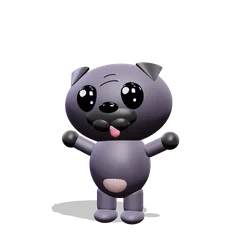
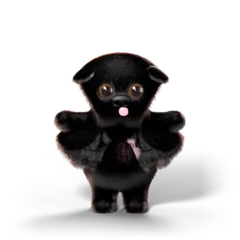
Blender-rendered mascots with real fur; wobbly hanging kitten
Pug, alien cat and slider kitten re-rendered in Cycles with particle fur,
glossy eyes and soft studio light. The hanging kitten now has toe beans,
eye rims and a grey cap, and swings from its paws with follow-through on
legs, tail and head. Click moves retimed to the new 1 s clips; floor
shadows fade at the image edges.

Claude-Session: https://claude.ai/code/session_019fbWZE46PVqoy15rDZvK2K

diff --git a/index.html b/index.html
@@ -411,7 +411,7 @@ body.token-world .topic.pile .symbol::after{content:"";position:absolute;left:-3
 .dogMascot,.bubDog,.alienCat{cursor:pointer;-webkit-tap-highlight-color:transparent;user-select:none}
 .dogMascot{width:132px;margin:-14px -8px -10px -10px}.dogMascot img,.bubDog img{width:100%;height:auto;display:block}.bubDog{width:96px;margin:-10px 0}
 .alienCat{width:92px;height:92px;margin:-14px -12px -14px -14px;animation:none}
-.kCat img{position:absolute;left:-50px;top:-22px;width:100px;height:100px;filter:drop-shadow(0 3px 2px rgba(0,0,0,.25))}
+.kCat img{position:absolute;left:-34px;top:-8px;width:68px;height:68px;filter:drop-shadow(0 3px 2px rgba(0,0,0,.2))}
 @media(max-width:800px){.shell{zoom:1.12}}
 body.token-world .topic.pile{padding:18px 16px}body.token-world .topic.pile b{font-size:19px}
 body.token-world.basics-open #parallel{display:none}body.token-world.basics-open #fees{display:block}
@@ -1018,7 +1018,7 @@ document.querySelectorAll('.topic,.exploreCard,.tokenCategory,.tokenTopic,.token
 
 /* Bubble pit: a theme's funds drop in as heavy bouncing balls. Pop one to open the fund. */
 const DOGSVG=document.querySelector('.dogMascot').innerHTML;let bub=null;
-document.addEventListener('click',e=>{const m=e.target.closest('.dogMascot,.bubDog,.alienCat');const i=m&&(m.tagName==='IMG'?m:m.querySelector('img'));if(!i||!i.dataset.move||i._busy||matchMedia('(prefers-reduced-motion: reduce)').matches)return;i._busy=1;const idle=i.src;(i._mv||(i._mv=fetch(i.dataset.move).then(r=>r.blob()))).then(b=>{const u=URL.createObjectURL(b);i.src=u;setTimeout(()=>{i.src=idle;URL.revokeObjectURL(u);i._busy=0},1200)}).catch(()=>{i._busy=0})});
+document.addEventListener('click',e=>{const m=e.target.closest('.dogMascot,.bubDog,.alienCat');const i=m&&(m.tagName==='IMG'?m:m.querySelector('img'));if(!i||!i.dataset.move||i._busy||matchMedia('(prefers-reduced-motion: reduce)').matches)return;i._busy=1;const idle=i.src;(i._mv||(i._mv=fetch(i.dataset.move).then(r=>r.blob()))).then(b=>{const u=URL.createObjectURL(b);i.src=u;setTimeout(()=>{i.src=idle;URL.revokeObjectURL(u);i._busy=0},990)}).catch(()=>{i._busy=0})});
 function openBubbles(key){const T=THEMES[key];if(!T)return;closeBubbles(true);const L=document.getElementById('bubbleLayer'),F=document.getElementById('bubField');lastFocus=document.activeElement;
  L.hidden=false;document.body.style.overflow='hidden';document.getElementById('bubTitle').textContent=T[1]+' '+T[0];
  const ids=T[2],n=ids.length;document.getElementById('bubNote').textContent=T[3]||(SMUG[Math.floor(Math.random()*SMUG.length)].replace('{n}',T[0]));document.getElementById('bubDog').innerHTML=DOGSVG;

diff --git a/scripts/mascots/cat.py b/scripts/mascots/cat.py
@@ -25,14 +25,14 @@ def build(kind='alien'):
         mask = lambda nt, sx: maxs(nt, oval(nt, sx, 0, 0.9, 0.2, 0.24), oval(nt, sx, 0, 1.56, 0.2, 0.1, -0.3))
         flen, iris = 0.03, (0.06, 0.02, 0.09)
     else:
-        c1, c2 = (0.86, 0.84, 0.82), (0.24, 0.23, 0.26)  # white kitten, grey hood
+        c1, c2 = (0.97, 0.96, 0.95), (0.17, 0.16, 0.19)  # white kitten, grey hood
         def mask(nt, sx):
-            top = smooth_mask(nt, sx.outputs['Z'], 1.8, 1.95)
+            top = smooth_mask(nt, sx.outputs['Z'], 1.84, 1.97)
             ax = nt.nodes.new('ShaderNodeMath'); ax.operation = 'ABSOLUTE'; nt.links.new(sx.outputs['X'], ax.inputs[0])
             blaze = mult(nt, mult(nt, smooth_mask(nt, ax.outputs[0], 0.13, 0.05), smooth_mask(nt, sx.outputs['Y'], -0.2, -0.38)), smooth_mask(nt, sx.outputs['Z'], 2.12, 1.98))
             inv = nt.nodes.new('ShaderNodeMath'); inv.operation = 'SUBTRACT'; inv.inputs[0].default_value = 1; nt.links.new(blaze, inv.inputs[1])
             return mult(nt, top, inv.outputs[0])
-        flen, iris = 0.042, (0.05, 0.06, 0.09)
+        flen, iris = 0.042, (0.1, 0.17, 0.3)
     skin_m = region_mix(principled('catSkin', c1, 0.6, sss=0.15, sss_radius=(1, 0.4, 0.3), sss_scale=0.04), c2, mask)
     pink = principled('pink', (0.95, 0.42, 0.52), 0.42, sss=0.4, sss_radius=(1, 0.3, 0.3), sss_scale=0.03)
     line_m = principled('mouth', (0.05, 0.02, 0.03), 0.7, spec=0.1)
@@ -67,9 +67,26 @@ def build(kind='alien'):
             whiskers.append(tube(f'wh{s}{k}', [(x0, y0, z0), (x0 + s * 0.2, y0 - 0.05, z0 + 0.03 + ang * 0.15), (x0 + s * 0.42, y0 + 0.02, z0 + ang * 0.6 - 0.02)], [0.006, 0.004, 0.001], whisk_m))
     inner = []
     for s in (-1, 1):
-        a = Vector((s * 0.31, S(s * 0.31, 2.08) + 0.02, 2.08)); b = Vector((s * 0.41, S(s * 0.41, 2.32) + 0.015, 2.32))
+        off = 0.02 if alien else -0.006  # kitten fur is longer, so bring the pink inner ear forward
+        a = Vector((s * 0.31, S(s * 0.31, 2.08) + off, 2.08)); b = Vector((s * 0.41, S(s * 0.41, 2.32) + off * 0.75, 2.32))
         inner.append(flap(f'inner{s}', a + Vector((0, -0.005, 0)), b, (0, -1, 0), 0.11, 0.15, 0.015, pink))
     tail = tube('tail', [(0, 0.28, 0.7), (0.15, 0.48, 0.66), (0.32, 0.55, 0.85), (0.35, 0.5, 1.15), (0.26, 0.45, 1.35)], [0.075, 0.07, 0.065, 0.06, 0.05], skin_m)
+    liner_m = principled('liner', (0.03, 0.025, 0.03), 0.6, spec=0.2)
+    liners = []
+    for s in (-1, 1):  # dark rim where the eye meets the fur, like real cat eyes
+        cx, cz = s * 0.215, 1.72; pts = []
+        for k in range(25):
+            a = 2 * math.pi * k / 24; x, z = cx + er * 1.0 * math.cos(a), cz + er * 1.05 * 1.0 * math.sin(a); pts.append((x, S(x, z) - 0.002, z))
+        liners.append(tube(f'liner{s}', pts, [0.011] * 25, liner_m))
+    beans = []
+    if not alien:  # pink toe beans on the raised paws, facing the viewer
+        bean_m = principled('bean', (0.95, 0.45, 0.55), 0.38, sss=0.5, sss_radius=(1, 0.35, 0.35), sss_scale=0.03, coat=0.3, coat_rough=0.2)
+        for s in (-1, 1):
+            px, pz = s * 0.85, 2.31; py = S(px, pz) - 0.004
+            grp_ = [uv_sphere(f'pad{s}', 0.036, (px, py, pz), (1.25, 0.42, 1.0))]
+            for k, dx in enumerate((-0.042, 0, 0.042)): grp_.append(uv_sphere(f'toe{s}{k}', 0.018, (px + dx * s, S(px + dx * s, pz + 0.06 - abs(dx) * 0.4) - 0.003, pz + 0.06 - abs(dx) * 0.4), (1, 0.45, 1.15)))
+            for b in grp_: b.data.materials.append(bean_m)
+            beans.append(grp_)
     extra = []
     if alien:
         orb_m = principled('orb', (1.0, 0.25, 0.75), 0.15, emit=(1.0, 0.12, 0.6), emit_str=1.6, coat=1.0, coat_rough=0.0)
@@ -81,9 +98,13 @@ def build(kind='alien'):
     if alien: hm = hair_mat('catHair', color=c1, rough=0.32, region=(c2, mask))
     else: hm = hair_mat('catHair', color=c1, rough=0.38, region=(c2, mask))
     eyec = [(s * 0.215, S(s * 0.215, 1.72), 1.72) for s in (-1, 1)]
-    fur(body, hm, count=26000, length=flen, children=14 if alien else 20, droop=(0, 0, -0.55), radius=0.0028 if alien else 0.0022, clump=0.25 if alien else 0.38, rough=0.006,
-        avoid=[(c, er * 0.95) for c in eyec] + [((0, ny, nz), 0.06), ((0, ny, 1.565), 0.05)],
-        short=[((0, -0.38, 1.6), 0.18, 0.35)] + [(c, 0.24, 0.45) for c in eyec] + [((s * 0.4, 0, 2.3), 0.25, 0.5) for s in (-1, 1)])
+    fur(body, hm, count=26000 if alien else 34000, length=flen, children=14 if alien else 20, droop=(0, 0, -0.55), radius=0.0028 if alien else 0.0022, clump=0.25 if alien else 0.26, rough=0.006,
+        avoid=[(c, er * 0.95) for c in eyec] + [((0, ny, nz), 0.06), ((0, ny, 1.565), 0.05)] + ([] if alien else [((s * 0.85, S(s * 0.85, 2.33), 2.33), 0.085) for s in (-1, 1)]),
+        short=[((0, -0.38, 1.6), 0.18, 0.35)] + [(c, 0.24, 0.45) for c in eyec] + [((s * 0.4, 0, 2.3), 0.25, 0.5 if alien else 0.3) for s in (-1, 1)]
+              + ([] if alien else [((s * 0.3, -0.26, 1.55), 0.22, 1.25) for s in (-1, 1)] + [((0, -0.26, 1.15), 0.3, 1.3)]))  # kitten: fluffy cheek and chest ruff
+    if not alien:  # white ear tufts
+        tuft = hair_mat('tuft', color=(0.9, 0.88, 0.86), rough=0.4)
+        for i in inner: fur(i, tuft, count=160, length=0.028, children=6, droop=(0, -0.2, 0.9), radius=0.0015, clump=0.5, rough=0.004)
     fur(tail, hm, count=3000, length=flen * 1.2, children=14, droop=(0, 0, 0), radius=0.0028, clump=0.3, rough=0.008)
 
     bones = [('root', (0, 0, 0), (0, 0, 0.3), None), ('hips', (0, 0.02, 0.62), (0, 0.02, 0.95), 'root'), ('spine', (0, 0.02, 0.95), (0, -0.01, 1.33), 'hips'),
@@ -92,10 +113,13 @@ def build(kind='alien'):
         bones += [(f'arm.{n}', (s * 0.25, -0.03, 1.22), (s * el[0], -0.05, el[1]), 'spine'), (f'fore.{n}', (s * el[0], -0.05, el[1]), (s * (pw[0] + 0.02), -0.09, pw[1] - 0.02), f'arm.{n}'),
                   (f'leg.{n}', (s * 0.17, 0, 0.66), (s * 0.18, -0.02, 0.4), 'hips'), (f'shin.{n}', (s * 0.18, -0.02, 0.4), (s * 0.19, -0.05, 0.1), f'leg.{n}'),
                   (f'foot.{n}', (s * 0.19, -0.05, 0.1), (s * 0.19, -0.24, 0.05), f'shin.{n}')]
-    rig = make_rig(bones)
+    bones_tail = ('tail', (0, 0.28, 0.72), (0.3, 0.5, 1.2), 'hips')
+    rig = make_rig(bones + [bones_tail])
     skin(body, rig, [b for b in bones if b[0] != 'root'])
-    for o in eyes + [nose] + mouth + whiskers + inner + extra: attach(o, rig, 'head')
-    attach(tail, rig, 'hips')
+    for o in eyes + [nose] + mouth + whiskers + inner + extra + liners: attach(o, rig, 'head')
+    for (s, n), g in zip(((-1, 'R'), (1, 'L')), beans):
+        for b in g: attach(b, rig, f'fore.{n}')
+    attach(tail, rig, 'tail')
     return rig, {'tail': tail, 'orbs': [o for o in extra if o.name.startswith('orb')], 'orb_m': extra and bpy.data.materials.get('orb')}
 
 if __name__ == '__main__':

diff --git a/scripts/mascots/anim.py b/scripts/mascots/anim.py
@@ -27,13 +27,13 @@ def pug_pose(rig, parts, t, special=False):
     if special:
         air = bump(t, 0.12, 0.62); cr = bump(t, 0, 0.18) + 0.8 * bump(t, 0.56, 0.72); tada = bump(t, 0.6, 1)
         lift = 0.32 * air; yaw += 2 * math.pi * ease((t - 0.12) / 0.5); crouch += 0.09 * cr
-        sp = max(air, tada); tgt = 0.25 if air > tada else 2.0
+        sp = max(air, tada); tgt = 0.2 if air > tada else 1.3
         aL = aL * (1 - sp) + tgt * sp; aR = aR * (1 - sp) + tgt * sp; headx += 0.22 * tada
     move(rig, 'root', 0, 0, lift); rot(rig, 'root', 0, 0, yaw)
     move(rig, 'hips', 0, 0, -crouch); rot(rig, 'hips', 0, lean, 0)
     rot(rig, 'spine', 0.05 * b, -lean * 0.5, 0.08 * s1)
     rot(rig, 'head', headx, heady, headz)
-    arms(rig, aL, aR, 0.3 * s1, -0.3 * s1, 0.35, 0.35)
+    arms(rig, aL, aR, 0.15 * s1, -0.15 * s1, 0.2, 0.2)
     for n, sg in (('L', 1), ('R', -1)):  # keep feet planted against the crouch
         rot(rig, f'leg.{n}', -0.25 * crouch * 4, sg * 0.04 * b, 0); rot(rig, f'shin.{n}', 0.5 * crouch * 4, 0, 0); rot(rig, f'foot.{n}', -0.25 * crouch * 4, 0, 0)
     if parts.get('tail'): pass
@@ -41,26 +41,35 @@ def pug_pose(rig, parts, t, special=False):
 def alien_pose(rig, parts, t, special=False):
     p = 2 * math.pi * t; s1 = math.sin(p)
     x, lift, yaw, lean, glow = 0.08 * s1, 0.0, -0.3 + 0.15 * s1, -0.08 * s1, 1.6
-    aL = aR = 1.15 + 0.25 * math.sin(2 * p); stepL, stepR = max(0, s1), max(0, -s1); crouch = 0.03 * (1 - math.cos(2 * p)) / 2
+    aL = aR = 0.85 + 0.22 * math.sin(2 * p); stepL, stepR = max(0, s1), max(0, -s1); crouch = 0.03 * (1 - math.cos(2 * p)) / 2
     hx, hy, hz = 0.06 * math.sin(2 * p), 0.15 * s1, 0.15 * math.sin(p - 0.6)
     if special:  # warp jump: crouch, leap with a full spin and arms up, antennae flare, land
         air = bump(t, 0.18, 0.8); cr = 0.6 * bump(t, 0, 0.25) + bump(t, 0.72, 0.95)
         lift = 0.35 * air; yaw += 2 * math.pi * ease((t - 0.18) / 0.6); crouch += 0.1 * cr
-        aL = aR = aL + (2.3 - aL) * air; glow = 1.6 + 10 * air; stepL = stepR = 0.5 * air
+        aL = aR = aL + (1.35 - aL) * air; glow = 1.6 + 10 * air; stepL = stepR = 0.5 * air
     move(rig, 'root', x, 0, lift); rot(rig, 'root', 0, 0, yaw)
     move(rig, 'hips', 0, 0, -crouch); rot(rig, 'hips', 0, lean, 0); rot(rig, 'spine', 0.04, -lean * 0.6, 0.06 * s1)
     rot(rig, 'head', hx, hy, hz)
-    arms(rig, aL, aR, 0.25 * s1, -0.25 * s1, 0.25, 0.25)
+    arms(rig, aL, aR, 0.12 * s1, -0.12 * s1, 0.15, 0.15)
     for n, st in (('L', stepL), ('R', stepR)):
         rot(rig, f'leg.{n}', -0.45 * st - 3 * crouch, 0, 0); rot(rig, f'shin.{n}', 0.7 * st + 6 * crouch, 0, 0); rot(rig, f'foot.{n}', -0.25 * st - 3 * crouch, 0, 0)
     m = parts.get('orb_m')
     if m: m.node_tree.nodes['Principled BSDF'].inputs['Emission Strength'].default_value = glow
 
+PIVOT_Z = 2.34  # kitten paws: everything swings around this grip point
+
 def kitten_hang(rig, parts, t, special=False):
-    p = 2 * math.pi * t; s1 = math.sin(p)
-    arms(rig, 0.03 * s1, -0.03 * s1, 0, 0, 0, 0)
-    rot(rig, 'spine', 0.05, 0.04 * s1, 0); rot(rig, 'hips', 0.08, 0.06 * s1, 0.05 * s1)
-    rot(rig, 'head', -0.12 + 0.05 * math.sin(2 * p), 0.1 * s1, 0.1 * math.sin(p + 0.8))
-    rot(rig, 'leg.L', -0.35 * s1 - 0.15, 0, 0.05); rot(rig, 'leg.R', 0.35 * s1 - 0.15, 0, -0.05)
-    rot(rig, 'shin.L', 0.35 + 0.25 * max(0, s1), 0, 0); rot(rig, 'shin.R', 0.35 + 0.25 * max(0, -s1), 0, 0)
-    rot(rig, 'foot.L', 0.5, 0, 0); rot(rig, 'foot.R', 0.5, 0, 0)
+    """Wobbly hang: pendulum sway from the paws, with the body, legs, tail and head trailing behind (follow-through)."""
+    p = 2 * math.pi * t; w = lambda lag, k=1: math.sin(k * p - lag)
+    th = 0.13 * w(0)                                   # main swing
+    rot(rig, 'root', 0, th, 0); move(rig, 'root', -PIVOT_Z * math.sin(th), 0, PIVOT_Z * (1 - math.cos(th)))
+    arms(rig, 0, 0, 0, 0, 0, 0)
+    rot(rig, 'spine', 0.05 + 0.03 * w(0.2, 2), 0, 0.04 * w(0.8))  # no sideways bend here: it would drag the paws off the ball
+    rot(rig, 'hips', 0.08 + 0.05 * w(0.5, 2), 0, 0.06 * w(1.2))  # belly jiggle
+    rig.pose.bones['spine'].scale = (1, 1 + 0.035 * w(0.3, 2), 1)
+    rot(rig, 'head', -0.1 + 0.07 * w(0.9, 2), 0.1 * w(-0.4), 0.14 * w(-0.6))
+    for n, ph, sg in (('L', 0.0, 1), ('R', math.pi, -1)):  # bicycle kicks + dangling lag
+        k = math.sin(p * 2 + ph)
+        rot(rig, f'leg.{n}', -0.2 - 0.4 * k, -0.3 * w(1.4), sg * 0.06)  # legs trail the swing
+        rot(rig, f'shin.{n}', 0.35 + 0.35 * max(0, k), 0, 0); rot(rig, f'foot.{n}', 0.45 + 0.3 * math.sin(p * 2 + ph - 0.8), 0, 0)
+    rot(rig, 'tail', 0.15 * w(1.6, 2), 0.25 * w(2.0), 0.55 * w(2.2))

diff --git a/scripts/mascots/lib.py b/scripts/mascots/lib.py
@@ -129,18 +129,20 @@ def make_rig(bones):
     for pb in ob.pose.bones: pb.rotation_mode = 'XYZ'
     return ob
 
-def seg_dist(P, a, b):
+def seg_dist(P, a, b, limb=False):
     a, b = np.array(a), np.array(b); ab = b - a
-    t = np.clip(((P - a) @ ab) / (ab @ ab), 0, 1)
-    return np.linalg.norm(P - (a + t[:, None] * ab), axis=1)
+    t = (P - a) @ ab / (ab @ ab); tc = np.clip(t, 0, 1)
+    d = np.linalg.norm(P - (a + tc[:, None] * ab), axis=1)
+    if limb: d = np.where(t < 0.08, d + 10 * (0.08 - t), d)  # limbs only own what lies past the shoulder/hip joint
+    return d
 
-def skin(obj, rig, bones, power=6.0, only=None):
+def skin(obj, rig, bones, power=4.0, only=None):
     """Smooth automatic weights from distance to each bone segment (robust replacement for bone-heat)."""
     P = np.array([v.co for v in obj.data.vertices]) @ np.array(obj.matrix_world.to_3x3()).T + np.array(obj.matrix_world.translation)
     names = [b[0] for b in bones if (only is None or b[0] in only)]
-    D = np.stack([seg_dist(P, b[1], b[2]) for b in bones if b[0] in names], 1) + 1e-4
+    D = np.stack([seg_dist(P, b[1], b[2], b[0].startswith(('arm.', 'leg.'))) for b in bones if b[0] in names], 1) + 1e-4
     W = D ** -power
-    W[D > np.sort(D, 1)[:, [1]] + 1e-9] = 0  # only the two nearest bones influence a vertex (stops arms dragging the face)
+    W[D > np.sort(D, 1)[:, [2]] + 1e-9] = 0  # at most three nearest bones per vertex
     W /= W.sum(1, keepdims=True)
     for j, n in enumerate(names):
         vg = obj.vertex_groups.new(name=n)

diff --git a/scripts/mascots/export.py b/scripts/mascots/export.py
@@ -4,8 +4,16 @@ from PIL import Image
 F, OUT, SITE = '/home/claude/bl/frames', '/home/claude/bl/out', '/home/claude/throwindice/assets/mascots'
 os.makedirs(OUT, exist_ok=True); os.makedirs(SITE, exist_ok=True)
 
+import numpy as np
+def edge_fade(im):
+    """Fade alpha near the left/right/bottom borders so floor shadows don't end in a hard edge."""
+    a = np.asarray(im).astype(np.float32); n = a.shape[0]; r = np.linspace(0, 1, n)
+    fx = np.clip(np.minimum(r, 1 - r) / 0.16, 0, 1); fy = np.clip((1 - r) / 0.1, 0, 1)
+    a[..., 3] *= (fx[None, :] * fy[:, None]) ** 1.5; return Image.fromarray(a.astype(np.uint8))
+
 def load(name, size):
-    d = f'{F}/{name}'; return [Image.open(f'{d}/{f}').convert('RGBA').resize((size, size), Image.LANCZOS) for f in sorted(os.listdir(d))]
+    d = f'{F}/{name}'; fr = [Image.open(f'{d}/{f}').convert('RGBA').resize((size, size), Image.LANCZOS) for f in sorted(os.listdir(d))]
+    return fr if name.startswith('kitten') else [edge_fade(im) for im in fr]
 
 def webp(frames, path, ms):
     frames[0].save(path, save_all=True, append_images=frames[1:], duration=ms, loop=0, quality=86, method=6)

diff --git a/scripts/mascots/pug.py b/scripts/mascots/pug.py
@@ -16,7 +16,7 @@ def build():
         v = nt.nodes.new('ShaderNodeVectorMath'); v.operation = 'LENGTH'; cm = nt.nodes.new('ShaderNodeCombineXYZ')
         nt.links.new(dx.outputs[0], cm.inputs[0]); nt.links.new(dz.outputs[0], cm.inputs[1]); nt.links.new(cm.outputs[0], v.inputs[0])
         return mult(nt, smooth_mask(nt, v.outputs['Value'], 1.0, 0.6), smooth_mask(nt, sx.outputs['Y'], -0.1, -0.3))
-    region_mix(furm, (0.5, 0.33, 0.35), belly)
+    region_mix(furm, (0.22, 0.13, 0.15), belly)
     ear_m = fur_bump(principled('pugEar', (0.012, 0.011, 0.013), 0.7, sheen=0.3, sheen_rough=0.5, sheen_tint=(0.4, 0.4, 0.5), spec=0.3), 900, 0.2)
     nose_m = fur_bump(principled('nose', (0.0, 0.0, 0.0), 0.5, spec=0.22), 1800, 0.9, 1.0)
     tongue_m = principled('tongue', (0.82, 0.12, 0.24), 0.28, sss=0.2, sss_radius=(1, 0.3, 0.3), sss_scale=0.05, coat=0.5, coat_rough=0.1)

diff --git a/scripts/mascots/render_all.py b/scripts/mascots/render_all.py
@@ -4,6 +4,7 @@ import bpy; from mathutils import Vector
 from lib import *; import anim
 char, mode, n, res, samples = sys.argv[1], sys.argv[2], int(sys.argv[3]), int(sys.argv[4]), int(sys.argv[5])
 only = int(sys.argv[6]) if len(sys.argv) > 6 else None
+if char == 'kitten' and os.path.exists('/home/claude/bl/skip_kitten') and only is None: sys.exit(0)  # kitten rendered separately
 if char == 'pug':
     import pug; rig, parts = pug.build(); pose = anim.pug_pose; exp = 0.45
 else:
